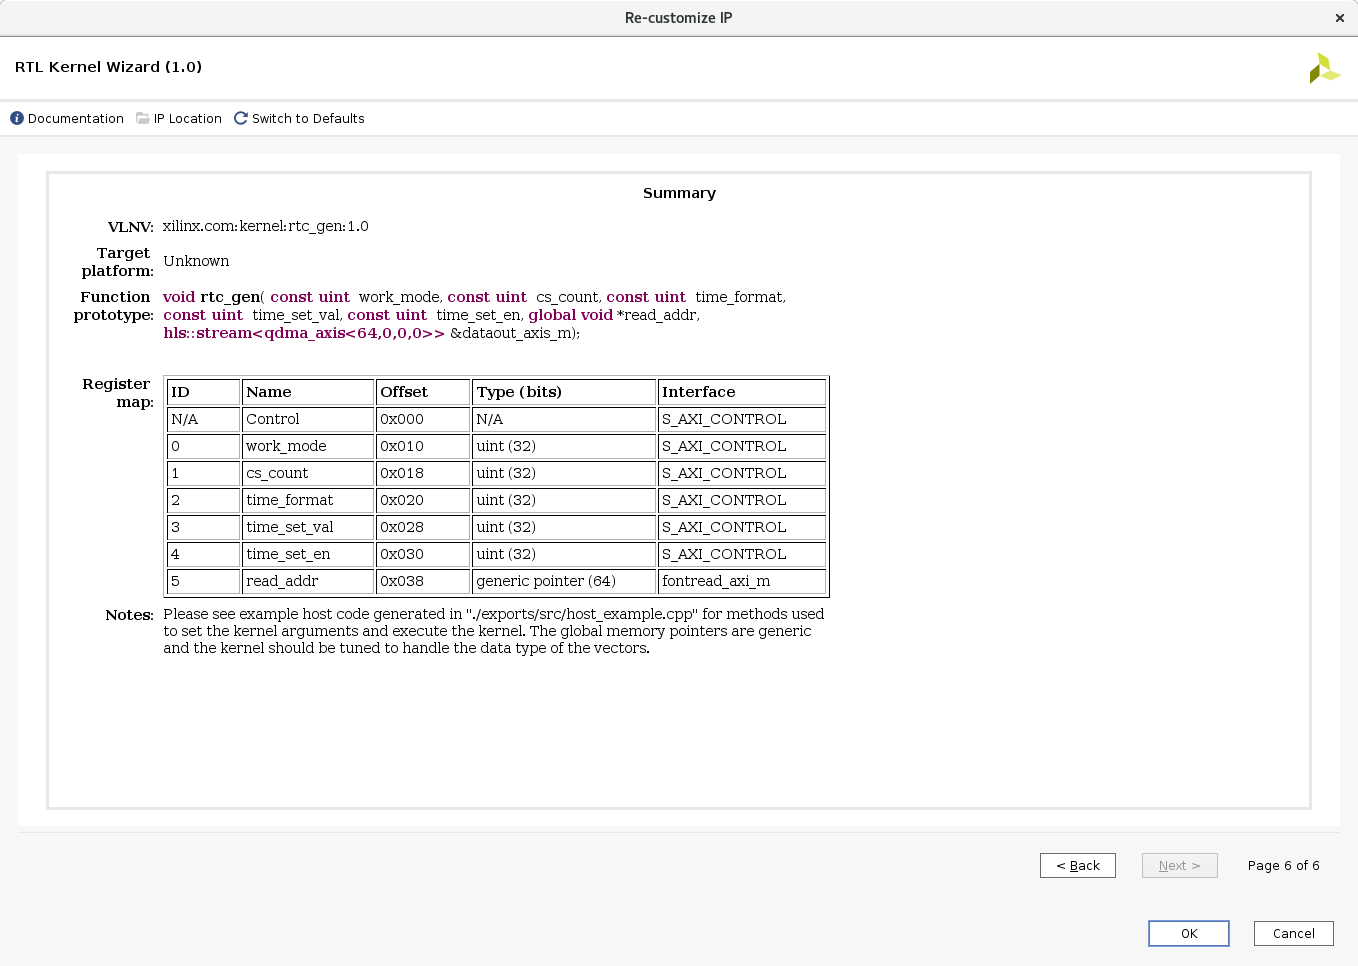
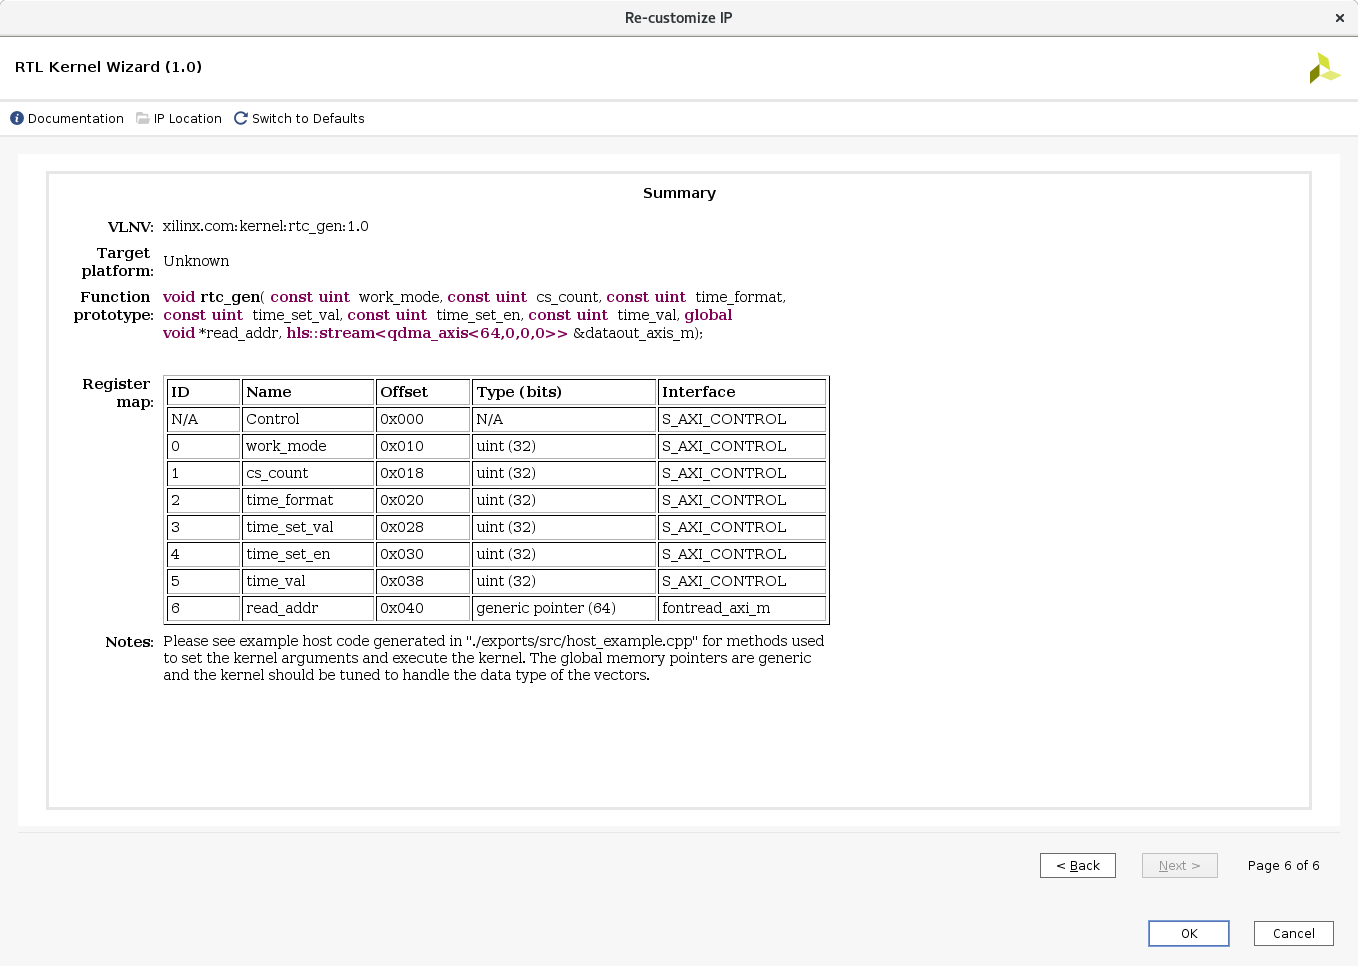
* correct typo * replace incorrect screen snapshot
Former-commit-id: 743a8b285f996b51af68cfb55a1076f1fae47508 [formerly e7d1fb08087cdba3c85a8b04a96b38d57f02c3fb]
Former-commit-id: 65267a2e059e6914c6ae9adba37dca7407af859a
Former-commit-id: b800d339024dd37f1554349d47d4c6f4e21acdf0

Changed region(s): [[0.0928, 0.5901, 0.6186, 0.7143], [0.1237, 0.3106, 0.5258, 0.3727]]

diff --git a/Hardware_Accelerators/Design_Tutorials/03-rtl_stream_kernel_integration/doc/rtc_gen_tutorial.md b/Hardware_Accelerators/Design_Tutorials/03-rtl_stream_kernel_integration/doc/rtc_gen_tutorial.md
@@ -23,7 +23,7 @@ Thus we generalize the top level design specification for *rtc_gen* kernel as be
 |2     | time_format | 1      |[0]: determine whether centisecond is included in the output digit images <br> 0 - disable centiseconds output <br> 1 - enable centiseconds output |
 |3     | time_set_val| 32     |Set time value for internal free-running clock: <br> [31:24] - hours <br> [23:16] - minutes <br> [15:8] - seconds <br> [7:0] - centi-seconds |
 |4     | time_set_en | 1      |[0]: write 1 to this bit will load the time_set_value to internal free-running clock. |
-|5     | time_val    | 32     |Read-only regsiter for internal read-time-clock time value: <br> [31:24] - hours <br> [23:16] - minutes <br> [15:8] - seconds <br> [7:0] - centi-seconds |
+|5     | time_val    | 32     |Read-only regsiter for internal real-time-clock time value: <br> [31:24] - hours <br> [23:16] - minutes <br> [15:8] - seconds <br> [7:0] - centi-seconds |
 |6     | read_addr   | 64     |AXI master pointer, this is the FPGA device buffer address for font library |
 
 

diff --git a/Hardware_Accelerators/Design_Tutorials/03-rtl_stream_kernel_integration/README.md b/Hardware_Accelerators/Design_Tutorials/03-rtl_stream_kernel_integration/README.md
@@ -107,7 +107,7 @@ Following table summarizes the arguments used by *rtc_gen* kernel.
 |2     | time_format | 1      |[0]: determine whether centisecond is included in the output digit images <br> 0 - disable centiseconds output <br> 1 - enable centiseconds output |
 |3     | time_set_val| 32     |Set time value for internal free-running clock: <br> [31:24] - hours <br> [23:16] - minutes <br> [15:8] - seconds <br> [7:0] - centi-seconds |
 |4     | time_set_en | 1      |[0]: write 1 to this bit will load the time_set_value to internal free-running clock. |
-|5     | time_val    | 32     |Read-only regsiter for internal read-time-clock time value: <br> [31:24] - hours <br> [23:16] - minutes <br> [15:8] - seconds <br> [7:0] - centi-seconds |
+|5     | time_val    | 32     |Read-only regsiter for internal real-time-clock time value: <br> [31:24] - hours <br> [23:16] - minutes <br> [15:8] - seconds <br> [7:0] - centi-seconds |
 |6     | read_addr   | 64     |AXI master pointer, this is the FPGA device buffer address for font library |
 
 <br/><br/>
